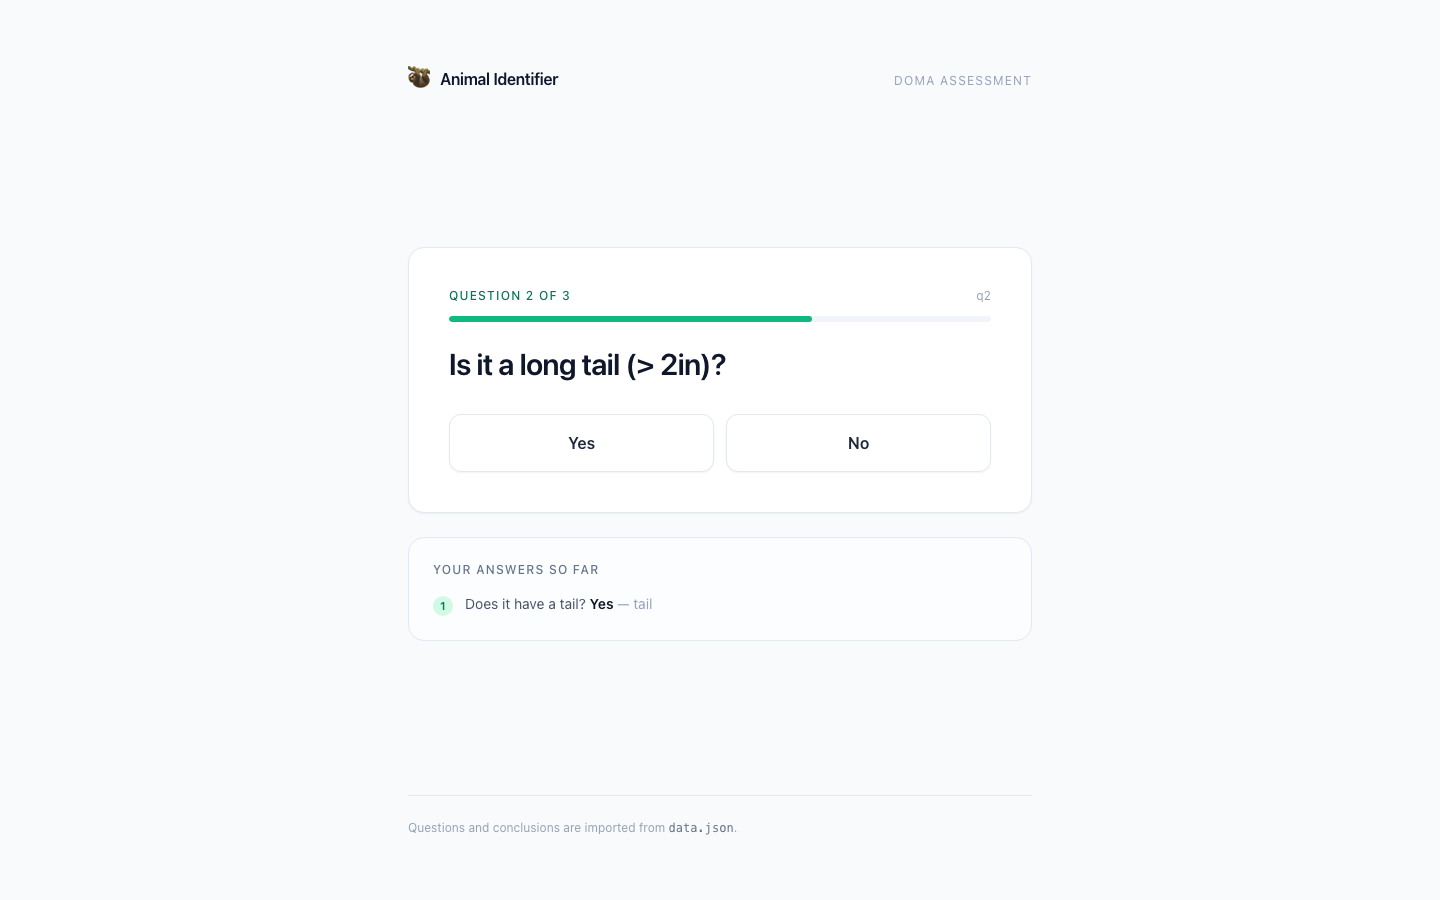
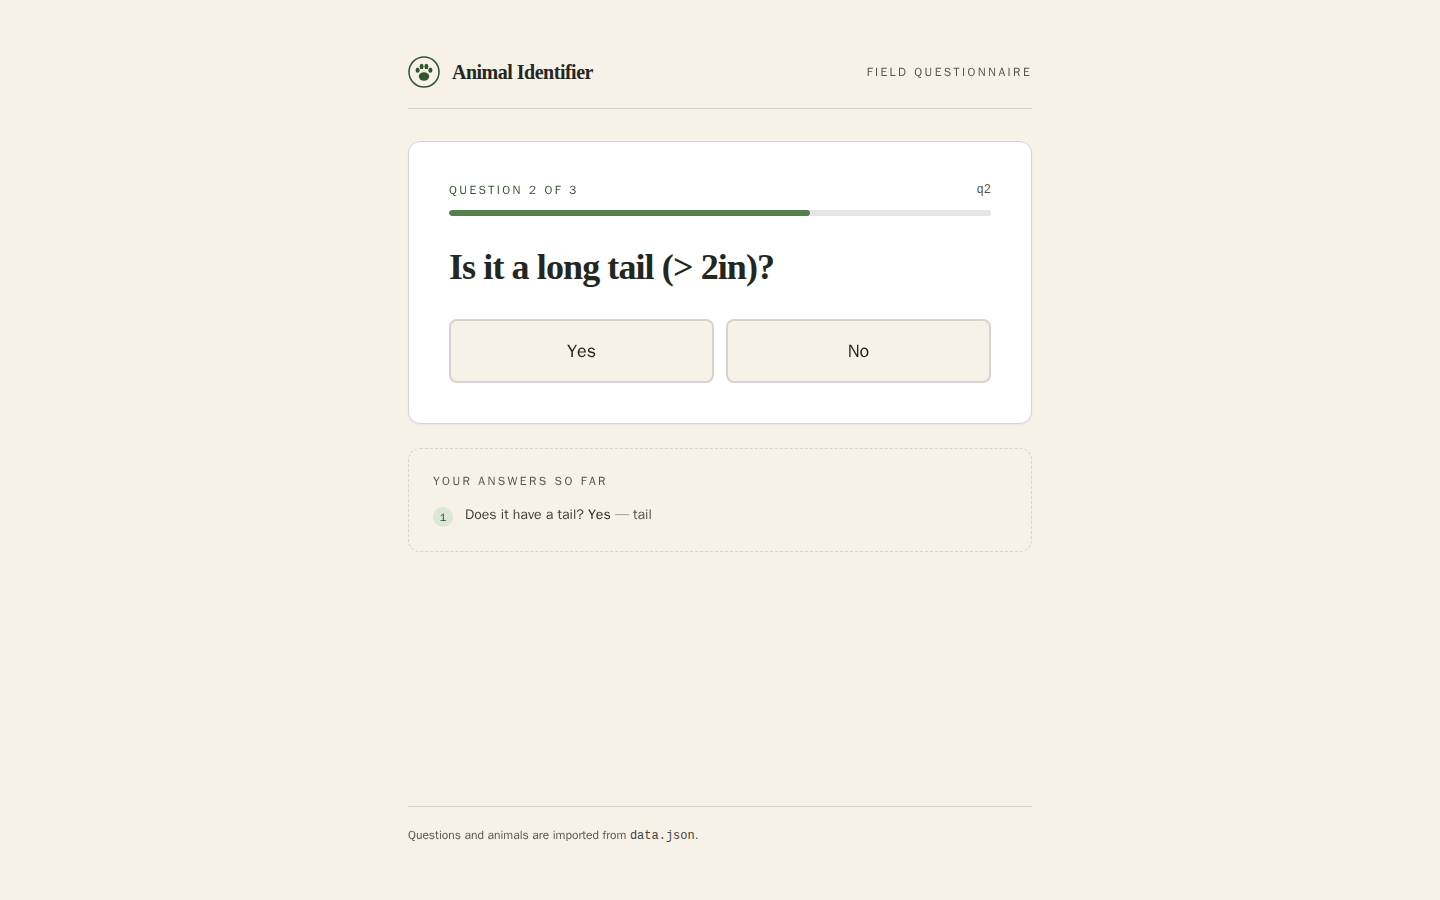
Document the verified Compose path, run rules and new screenshots
The README said the Docker image and container boot had never been
run. Both now are: `docker compose up --build` serves the app on 8661
and /up answers, so the caveat is replaced with the command and the
captured health response.

- Ruby 3.4 / Node 22 local setup, RAILS_LOG_LEVEL in the settings
  table, and a note that production needs SECRET_KEY_BASE because
  there is no credentials file.
- A section on why only whole, in-order runs are scored, with a
  flowchart of the questionnaire.
- The CSP and the native progress bars are explained.
- Screenshots retaken from the production container with the seeded
  questionnaire, plus two at phone width; test transcript refreshed.
- MIT license added; the project had none.

diff --git a/README.md b/README.md
@@ -1,14 +1,13 @@
 # Animal Identifier
 
-Answer a short run of yes/no questions and this Rails app names the animal — or
+Answer a short run of yes/no questions and this Rails app names the animal, or
 says plainly that the questionnaire has no answer for the route you took. The
 questions, the branches between them and the animals they lead to all live in
 `data.json`. Nothing under `app/` knows what a tail is.
 
-> The repository is named after the exercise rather than the software. What is
-> actually here is a decision-tree questionnaire engine: a JSON document
-> imported into PostgreSQL, a graph walked one question at a time, and a scorer
-> that decides which conclusion the collected answers point at.
+Underneath, it is a small decision-tree questionnaire engine: a JSON document
+imported into PostgreSQL, a graph walked one question at a time, and a scorer
+that decides which conclusion the collected answers point at.
 
 ## What a run looks like
 
@@ -19,6 +18,13 @@ questions, the branches between them and the animals they lead to all live in
 | A conclusion | No conclusion |
 | --- | --- |
 | ![Loris](docs/screenshots/03-result-loris.png) | ![No exact match](docs/screenshots/04-result-inconclusive.png) |
+
+On a phone (390 px wide):
+
+<p>
+  <img src="docs/screenshots/05-mobile-question.png" alt="A question on a phone" width="260">
+  <img src="docs/screenshots/06-mobile-result.png" alt="A result on a phone" width="260">
+</p>
 
 ## Every route, and where it lands
 
@@ -35,13 +41,13 @@ no tail + nocturnal                              -> loris
 no tail + diurnal                                -> inconclusive (closest: lemur)
 ```
 
-Half of the routes match nothing. That is a property of the data the exercise
-supplies, not a defect, and the application is built to report it rather than
-round to the nearest animal.
+Half of the routes match nothing. That is a property of the data, not a
+defect, and the application reports it rather than rounding to the nearest
+animal.
 
 ## How a conclusion is chosen
 
-Each answer contributes a **context** — a short phrase such as `no tail` or
+Each answer contributes a **context**, a short phrase such as `no tail` or
 `nocturnal`. Each conclusion carries the set of contexts it *accepts*; `loris`
 accepts both `tail` and `no tail`, because lorises come both ways.
 
@@ -55,19 +61,44 @@ candidates and the result page shows the closest one, its score, and the
 contexts it could not explain. Ranking is deterministic: highest score first,
 then the more specific conclusion (the one accepting fewest contexts), then
 name. The `50% / 50%` tie in the fourth screenshot is broken by that middle
-rule — `lemur` accepts three contexts, `loris` four.
+rule: `lemur` accepts three contexts, `loris` four.
 
 `app/services/quiz/conclusion_matcher.rb` is plain Ruby over three fields and is
 tested against the complete truth table above, not a hand-picked path.
+
+### Only whole runs are scored
+
+Because `loris` accepts `no tail`, a single "no" to the first question is
+already an exact match. Scoring a run that stopped half way would therefore
+name an animal far too early. So:
+
+- the result page only renders once the last answer is one that ends the run;
+  otherwise it sends the visitor to their next question;
+- a question can only be opened or answered if it is the first one, one the
+  visitor has already answered (to change it), or the one their last answer
+  leads to. A shared link to `?question=q3` takes a new visitor back to the
+  start instead of skipping two questions.
+
+```mermaid
+flowchart LR
+    Q1["q1: Does it have a tail?"] -- yes --> Q2["q2: Is it a long tail?"]
+    Q1 -- no --> Q3["q3: Is it nocturnal?"]
+    Q2 -- yes / no --> Q3
+    Q3 -- yes / no --> R(["Result: ConclusionMatcher over the contexts"])
+```
+
+Re-answering an earlier question discards the answers after it: in a decision
+tree those later answers may no longer be reachable.
 
 ## The questionnaire is data
 
 `data.json` is read by `Quiz::Sources::JsonFile`, turned into plain hashes, and
 written into PostgreSQL by `Quiz::Importer`. Importing is a deploy-time step
-(`bin/rails quiz:import`, also run by `db/seeds.rb`), idempotent, and wrapped in
-one transaction: editing the source updates rows in place, entries that have
-gone away are pruned, and a questionnaire whose answers point at questions that
-do not exist is rejected whole rather than half-applied.
+(`bin/rails quiz:import`, also run by `db/seeds.rb` and the container
+entrypoint), idempotent, and wrapped in one transaction: editing the source
+updates rows in place, entries that have gone away are pruned, and a
+questionnaire whose answers point at questions that do not exist is rejected
+whole rather than half-applied.
 
 ```mermaid
 erDiagram
@@ -76,13 +107,13 @@ erDiagram
 
     QUESTIONS {
         bigint id PK
-        string external_id UK "q1, q2, q3 — the id the source document uses"
+        string external_id UK "q1, q2, q3: the id the source document uses"
         string statement "Does it have a tail"
     }
     ANSWERS {
         bigint id PK
         bigint question_id FK
-        string answer_type "yes or no — unique per question"
+        string answer_type "yes or no, unique per question"
         string context "the phrase this answer contributes"
         string next_question_external_id "null ends the run"
     }
@@ -96,7 +127,7 @@ erDiagram
 Two things in that diagram are deliberate. The branch pointer is a *soft* link:
 answers store the source document's own `external_id`, so an import can write
 questions in any order and `Quiz::Graph` resolves the hops in memory after one
-round trip. And `conclusions` has no foreign key to anything — a conclusion is
+round trip. And `conclusions` has no foreign key to anything: a conclusion is
 matched by its contexts, never by its position in the tree, which is why adding
 an animal needs no schema change.
 
@@ -108,58 +139,80 @@ controller.
 
 ## Running it
 
-Ruby 3.1 (`.ruby-version` pins 3.1.3), Node with Yarn, and a reachable
+### With Docker Compose
+
+```bash
+docker compose up --build
+```
+
+Then open <http://localhost:8661>. Compose starts Postgres 16 (published on
+host port 8662) and the production image; the entrypoint runs `db:prepare` and
+`quiz:import` on every start, and the container reports healthy once `GET /up`
+answers:
+
+```bash
+$ curl -s http://localhost:8661/up
+{"status":"ok","questions":3}
+```
+
+The Compose file uses a placeholder database password and a placeholder
+`SECRET_KEY_BASE`. Both are fine on your own machine; set real values
+(`bin/rails secret` generates a key) anywhere else.
+
+### On your machine
+
+Ruby 3.4 (`.ruby-version` pins 3.4.12), Node 22 with Yarn 1, and a reachable
 PostgreSQL.
 
 ```bash
 bundle install
 yarn install
 bin/rails db:prepare     # create + migrate; seeds run the import
-bin/rails quiz:import    # idempotent, safe to re-run
 bin/dev                  # Rails, esbuild --watch and tailwind --watch
 ```
 
-Then open <http://localhost:3000>.
-
-A multi-stage `Dockerfile` and a `docker-compose.yml` (Postgres 16, web on host
-port 8661, database on 8662) are included; the entrypoint runs `db:prepare` and
-`quiz:import` on start, and `HEALTHCHECK` hits `/up`. **Neither the image build
-nor a container boot has been run in this environment**, so treat the stack as
-authored and unverified.
+Then open <http://localhost:3000>. After editing `data.json`, run
+`bin/rails quiz:import` again; it is idempotent.
 
 ## Settings
 
+Copy `.env.example` for a starting point. Nothing is required for local
+development beyond a reachable PostgreSQL.
+
 | Variable | Default | Purpose |
 | --- | --- | --- |
-| `DATABASE_URL` | — | Full connection string. Overrides everything below. |
+| `DATABASE_URL` | none | Full connection string. Overrides everything below. |
 | `DATABASE_NAME` | `doma_test_development` / `doma_test_production` | Database for the current environment. |
 | `TEST_DATABASE_NAME` | `doma_test_test` | Database used by `bin/rails test`. |
 | `DATABASE_HOST` / `DATABASE_PORT` | local socket / `5432` | Where PostgreSQL is. |
-| `DATABASE_USERNAME` / `DATABASE_PASSWORD` | OS user / — | Role to connect as. |
+| `DATABASE_USERNAME` / `DATABASE_PASSWORD` | OS user / none | Role to connect as. |
 | `RAILS_MAX_THREADS` | `5` | Puma threads and the Active Record pool size. |
-| `SECRET_KEY_BASE` | — | Required in production. `bin/rails secret` generates one. |
+| `RAILS_LOG_LEVEL` | `info` | Production log level (logs go to STDOUT). |
+| `SECRET_KEY_BASE` | none | Required in production. There is no credentials file. |
 | `QUESTIONNAIRE_SOURCE` | `json_file` | Which registered adapter to import from. |
 | `QUESTIONNAIRE_PATH` | `data.json` | What to hand that adapter. |
 | `SKIP_DB_PREPARE` | unset | Set to `1` to stop the container entrypoint migrating and importing. |
 
-`.env.example` is the tracked template; no credentials are committed.
-
 ## Tests and checks
 
 ```bash
-bin/rails test           # 69 runs, 181 assertions, 0 failures, 0 errors, 0 skips
-bundle exec rubocop      # rubocop-rails-omakase: 54 files, no offenses
+bin/rails test           # 83 runs, 0 failures (builds the JS/CSS bundles first)
+bundle exec rubocop      # rubocop-rails-omakase, no offenses
 bin/rails quiz:paths     # the truth table above
 ```
 
 The suite imports the real `data.json` rather than fixtures, so a change to the
-questionnaire that breaks the application breaks the build. A transcript of a
+questionnaire that breaks the application breaks the tests. A transcript of a
 run is in [`docs/test-run.txt`](docs/test-run.txt).
 
-One test is worth pointing at: `test/integration/quiz_flow_test.rb` asserts that
-rendering a question issues exactly **two** queries — one for the questions, one
-for their answers, both preloaded by `Quiz::Graph` — so per-row querying cannot
-creep back in unnoticed.
+Two tests are worth pointing at:
+
+- `test/integration/quiz_flow_test.rb` asserts that rendering a question issues
+  exactly **two** queries, one for the questions and one for their answers, both
+  preloaded by `Quiz::Graph`, so per-row querying cannot creep back in unnoticed.
+- `test/integration/run_order_test.rb` covers the ways a partial run could
+  otherwise be scored: the result page mid-run, deep links ahead of the next
+  question, and answers posted to a question that has not been reached.
 
 ## Reading the code
 
@@ -168,26 +221,34 @@ The controller only routes. Everything that decides anything is in
 
 | File | Responsibility |
 | --- | --- |
-| `sources.rb` | Adapter registry — the extension seam |
+| `sources.rb` | Adapter registry, the extension seam |
 | `sources/json_file.rb` | Reads and validates the JSON document |
 | `importer.rb` | Transactional, idempotent import and reconciliation |
 | `graph.rb` | Traversal: root, depth, every route, cycle detection |
-| `conclusion_matcher.rb` | Scoring and ranking — the domain rule |
+| `conclusion_matcher.rb` | Scoring and ranking, the domain rule |
 | `progress.rb` | One visitor's run, backed by the session |
 
 `Quiz::Progress` keeps JSON-safe hashes because the session is serialised as
-JSON, and truncates forward history when a visitor re-answers an earlier
-question: in a decision tree, the answers after the one you changed are no
-longer reachable.
+JSON, and records where each answer leads so the controller can tell a finished
+run from an unfinished one.
+
+The pages load nothing from other origins and use no inline styles or scripts,
+so `config/initializers/content_security_policy.rb` can be strict
+(`default-src 'self'`, no `unsafe-inline`). The progress bars are native
+`<progress>` elements for the same reason.
 
 ## Out of scope
 
-- One imported questionnaire at a time — no multi-tenancy, no versioning.
+- One imported questionnaire at a time: no multi-tenancy, no versioning.
 - Progress lives in the session cookie, so a run cannot be resumed on another
   device and does not survive clearing cookies.
-- Questionnaire text comes from the source document as written. UI chrome is in
+- Questionnaire text comes from the source document as written. UI text is in
   `config/locales/en.yml`, but there is no translation layer for the questions
   themselves.
 - Contexts are opaque strings. The matcher has no notion of one context
   contradicting another beyond "this conclusion does not accept it".
-- No authentication, rate limiting or analytics — none were asked for.
+- No authentication, rate limiting or analytics.
+
+## License
+
+MIT. See [LICENSE](LICENSE).
